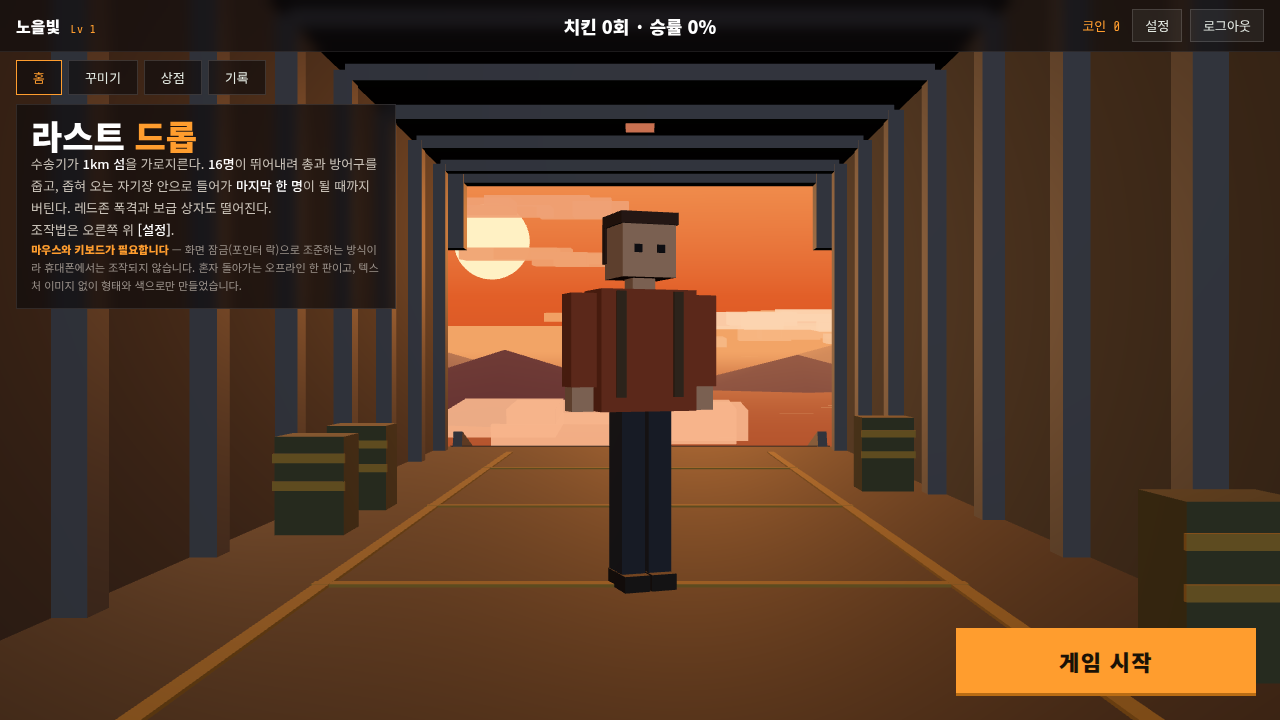
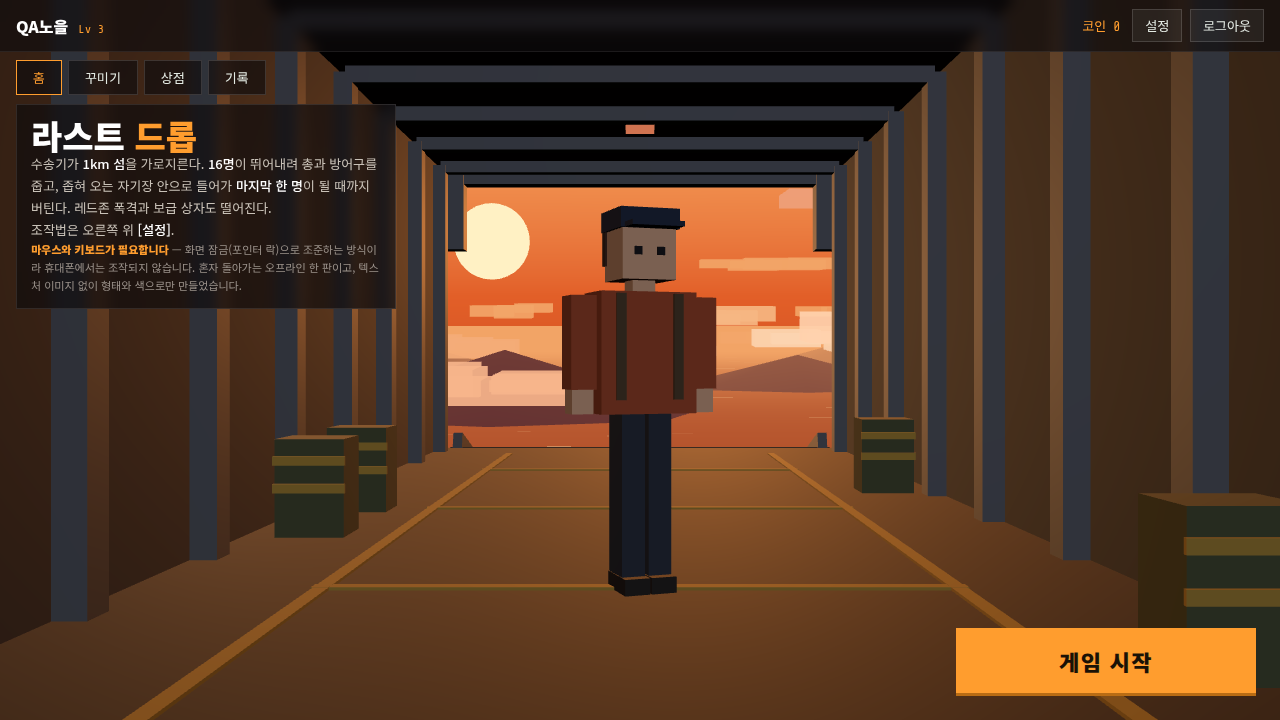
fix(30): 30 검토 반영 — 상단 바 승률 제거 · 생존시간·시간당 13판 검증 강화 · 운영 배포
- 상단 바 가운데 '치킨·승률' 삭제 (승률은 [기록] 에서만)
- 서버: 4등 안인데 생존 150초 미만이면 거부(bad_survival), 시간당 13번째 판은 기록·코인 모두 거부(hourly_cap)
- 7판 2분·0:00 치킨 행은 로컬 시험 DB 직접 조작(토큰 발급 시각 앞당김) — 운영 DB 엔 없음 확인
- 운영: DB 백업 backup-30-20261031-170606, Flask 재기동 순단 약 0.8초
- 실서버 확인: 로그인→계정→재로그인→홈(승률 없음)→기록→실제 192초 한 판 +10→상점 캡→재로그인 유지,
  검증 실측 too_short·bad_survival·token_reused·hourly_cap, 기존 게임 회귀, 시험 계정 운영 DB 에서 삭제
- docs/30 갱신 · 스크린샷 실서버 화면으로 교체

diff --git a/lastdrop/index.html b/lastdrop/index.html
@@ -125,13 +125,12 @@ body{height:100%;overflow:hidden;background:var(--bg);color:var(--ink);
 /* 홈 화면 (30 문서) — 노을 배경 위 반투명 어두운 패널로 글자 대비 */
 #home3d{position:absolute;inset:0;width:100%;height:100%;display:block;touch-action:none;cursor:grab}
 #home3d:active{cursor:grabbing}
-#topbar{position:absolute;left:0;right:0;top:0;height:52px;display:grid;grid-template-columns:1fr auto 1fr;align-items:center;gap:12px;
+#topbar{position:absolute;left:0;right:0;top:0;height:52px;display:grid;grid-template-columns:1fr auto;align-items:center;gap:12px;
   padding:0 max(16px,env(safe-area-inset-right,0px)) 0 max(16px,env(safe-area-inset-left,0px));
   background:rgba(14,10,12,.66);border-bottom:1px solid rgba(255,255,255,.08);backdrop-filter:blur(6px)}
 .tb-l{display:flex;gap:10px;align-items:baseline;min-width:0;white-space:nowrap;overflow:hidden}
 .tb-l b{font-size:16px;color:#fff;overflow:hidden;text-overflow:ellipsis}
 #level{font-family:var(--f-mono);font-size:12px;color:var(--amber)}
-.tb-c{font-family:var(--f-dis);font-weight:900;font-size:18px;color:#fff;white-space:nowrap}
 .tb-r{display:flex;gap:8px;justify-content:flex-end;align-items:center;white-space:nowrap}
 #coins{font-family:var(--f-mono);font-size:13px;color:var(--amber);margin-right:4px}
 .tb-r button,#tabs button{font:inherit;font-size:13px;color:var(--ink);background:rgba(255,255,255,.06);border:1px solid rgba(255,255,255,.14);
@@ -173,7 +172,7 @@ button.link{font:inherit;font-size:12px;color:var(--dim);background:none;border:
 .dopts .opt.on{border-color:var(--amber);color:var(--amber)}
 #homeMsg{font-size:12px;color:var(--amber);min-height:1em}
 /* 전적·코인·상점·기록 (29 문서) */
-#coins:empty,#coinMsg:empty{display:none}   /* #chicken 은 비어도 상단 바 가운데 칸 자리를 지킨다 */
+#coins:empty,#coinMsg:empty{display:none}
 #coinMsg{font-family:var(--f-mono);font-size:13px;color:var(--dim)}
 #coinMsg.got{font-size:22px;font-weight:700;color:var(--amber)}
 .btns.sm{flex-wrap:wrap}
@@ -291,7 +290,6 @@ button.link{font:inherit;font-size:12px;color:var(--dim);background:none;border:
     <canvas id="home3d" aria-label="내 캐릭터 — 끌어서 돌리기"></canvas>
     <header id="topbar">
       <div class="tb-l"><b id="nick">…</b><span id="level"></span></div>
-      <div class="tb-c" id="chicken"></div>
       <div class="tb-r"><span id="coins"></span><button type="button" id="setBtn">설정</button><button type="button" id="outBtn">로그아웃</button></div>
     </header>
     <nav id="tabs" role="tablist">

diff --git a/lastdrop/game.js b/lastdrop/game.js
@@ -2515,7 +2515,7 @@ const authEl = $id('auth'), nickEl = $id('nick'), levelEl = $id('level'), tabsEl
 const dressBtn = $id('dressBtn'), outBtn = $id('outBtn'), shopBtn = $id('shopBtn'), recBtn = $id('recBtn'), setBtn = $id('setBtn');
 const dressEl = $id('dress'), dressRows = $id('dressRows'), homeMsg = $id('homeMsg');
 const shopEl = $id('shop'), shopRows = $id('shopRows'), recEl = $id('rec'), recBody = $id('recBody');
-const chickenEl = $id('chicken'), coinEl = $id('coins'), coinMsg = $id('coinMsg');
+const coinEl = $id('coins'), coinMsg = $id('coinMsg');   // 승률은 [기록] 에서만 (30 검토 — 상단 바엔 없다)
 const TABS = { home:$id('tabHome'), dress:dressEl, shop:shopEl, rec:recEl, settings:$id('settings'), auth:authEl };
 async function api(path, opt = {}){
   const h = { 'Content-Type':'application/json' };
@@ -2551,7 +2551,6 @@ async function initHome(){
 const levelOf = (st) => 1 + Math.floor(((st && st.games) || 0) / 5);
 function showHeader(){
   const st = acct.stats;
-  chickenEl.textContent = acct.user ? '치킨 ' + (st ? st.wins : 0) + '회 · 승률 ' + Math.round(st ? st.winRate : 0) + '%' : '';   // 기록 화면과 같은 반올림
   coinEl.textContent = acct.user ? '코인 ' + acct.coins : '';
   levelEl.textContent = acct.user ? 'Lv ' + levelOf(st) : acct.guest ? (acct.online ? '게스트 — 저장 안 됨' : '게스트 (계정 서버 없음)') : '';
 }
@@ -2742,7 +2741,7 @@ async function matchEnd(place){
   const body = { token:tok, place, kills, shots, hits, survival: Math.round((performance.now() - matchStartedAt) / 100) / 10 };
   try {
     const r = await api('lastdrop/match/end', { method:'POST', csrf:true, body });
-    if (r.ok){ coinMsg.textContent = r.j.coins ? '+' + r.j.coins + ' 코인' : (r.j.why === 'hourly_cap' ? '기록했다 — 시간당 12판이 넘어 코인 없음' : '기록했다 · 코인 없음 (4등 안에 들면 코인)');
+    if (r.ok){ coinMsg.textContent = r.j.coins ? '+' + r.j.coins + ' 코인' : '기록했다 · 코인 없음 (4등 안에 들면 코인)';
                coinMsg.classList.toggle('got', !!r.j.coins); await loadAccount(); }
     else coinMsg.textContent = '기록되지 않았다 — ' + ((r.j && r.j.error) || r.status);
   } catch (e) { coinMsg.textContent = '기록하지 못했다 — 연결을 확인해라'; }

diff --git a/server/game_accounts.py b/server/game_accounts.py
@@ -64,7 +64,7 @@ COIN_BY_PLACE = {1: 10, 2: 3, 3: 2, 4: 1}
 N_PLAYERS = 16
 MIN_MATCH = 180            # 판 길이 최소 3분 (서버가 잰 토큰 발급 ~ 결과 제출)
 TOKEN_TTL = 3600           # 토큰은 1시간 안에 써야 한다
-MAX_PER_HOUR = 12          # 계정당 시간당 코인 받는 판 수
+MAX_PER_HOUR = 12          # 계정당 시간당 기록되는 판 수 — 13번째부터 거부
 MAX_TOKENS_PER_HOUR = 40   # 토큰 발급 남용 방지
 KEEP_RECENT = 100          # 판 상세는 계정당 최근 100판만, 나머지는 누적 합계(ld_totals)로 (29-b)
 RECORDED = "('ok','nocoin','capped')"
@@ -450,16 +450,17 @@ def match_end():
             return no('bad_shots', '명중 수가 이상하다')
         if not isinstance(surv, (int, float)) or isinstance(surv, bool) or not 0 <= surv <= elapsed + 5:
             return no('bad_survival', '생존 시간이 이상하다')
+        if place <= 4 and surv < MIN_MATCH - 30:           # 4등 안이면 판 대부분을 살아 있었어야 한다 (30 검토)
+            return no('bad_survival', '4등 안인데 생존 시간이 너무 짧다')
         status, coins, why = 'ok', COIN_BY_PLACE.get(place, 0), None
         if elapsed < MIN_MATCH:
             if place <= 4:                                  # 3분도 안 돼 4등 안 — 있을 수 없다
                 return no('too_short', '판이 너무 짧다 (3분 미만)')
             status, coins, why = 'nocoin', 0, 'too_short'   # 일찍 죽은 판 — 전적만 (어차피 코인 0)
-        recent = conn.execute("SELECT COUNT(*) FROM matches WHERE user_id=? AND status='ok' AND ended_ts>?",
+        recent = conn.execute("SELECT COUNT(*) FROM matches WHERE user_id=? AND status IN ('ok','nocoin','capped') AND ended_ts>?",
                               (u['id'], now - 3600)).fetchone()[0]
-        if coins and recent >= MAX_PER_HOUR:
-            status, coins, why = 'capped', 0, 'hourly_cap'
-            _reject(conn, u['id'], 'hourly_cap', {'place': place})
+        if recent >= MAX_PER_HOUR:                         # 시간당 13번째 판부터는 기록·코인 모두 거부 (30 검토)
+            return no('hourly_cap', '시간당 %d판까지만 기록된다' % MAX_PER_HOUR)
         _totals(conn, u['id'])                         # 누적 행이 없으면 기존 기록으로 먼저 채운다 — 이번 판을 기록하기 '전에'
         conn.execute('UPDATE matches SET status=?, ended_ts=?, place=?, kills=?, survival=?, shots=?, hits=?, coins=? '
                      "WHERE id=? AND status='open'",
